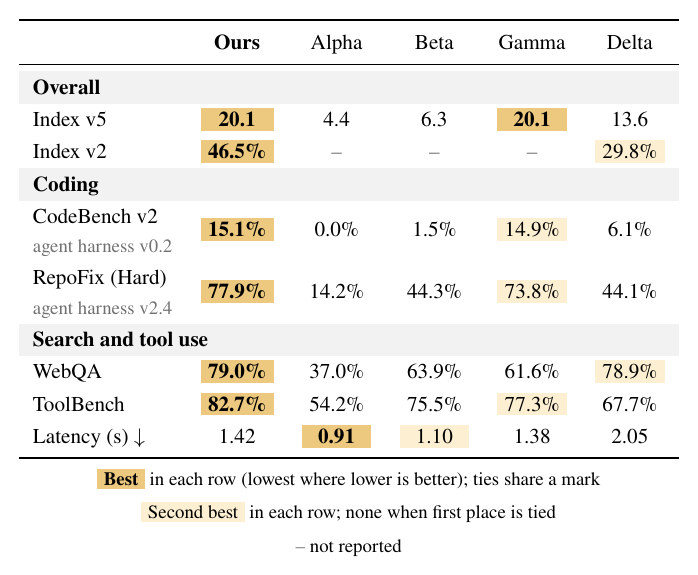
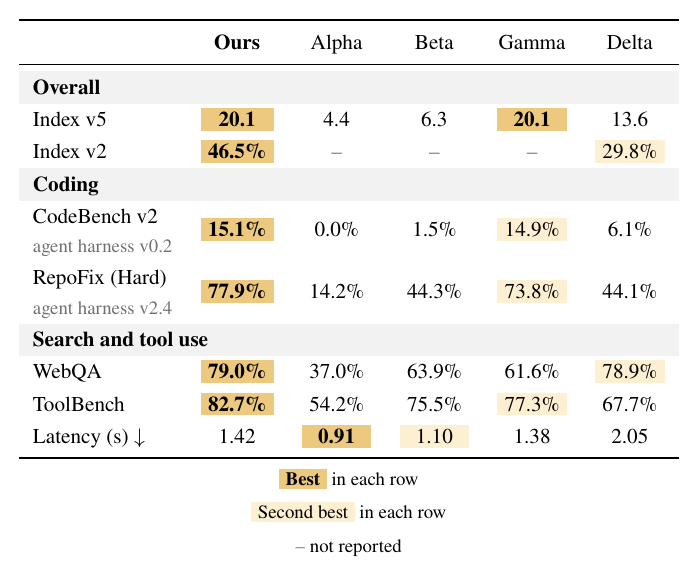
Leave out of the table key what the table already shows
\pvkey no longer adds a note on ties or on lower-is-better measures: tied
values already carry the same mark, and the arrows say which way is better.
The words for those notes (key/lowest, key/lowest-mixed, key/ties,
key/second-tied) and the punctuation only they used (key/open, key/close,
key/semicolon) are no longer options. The README, the guide, the skill's
table reference, the tests and the key images in the docs follow.

Changed region(s): [[0.1203, 0.7983, 0.8725, 0.9165]]

diff --git a/tests/test_latex.py b/tests/test_latex.py
@@ -85,14 +85,16 @@ KEY = re.compile(r"pubviz key: table (\d+): (.*)")
 
 def test_key_explains_the_marks_each_table_shows(latex):
     keys = {int(t): body.split(" | ") for t, body in KEY.findall(latex("key.tex"))}
-    best = r"\__pv_key_cue:nn {1}{Best} in each row (lowest where lower is better); ties share a mark"
-    second = r"\__pv_key_cue:nn {2}{Second best} in each row; none when first place is tied"
+    # Table 1 has a tie for best and a lower-is-better row. The key says
+    # neither: the table shows both, with two equal marks and an arrow.
+    best = r"\__pv_key_cue:nn {1}{Best} in each row"
+    second = r"\__pv_key_cue:nn {2}{Second best} in each row"
     missing = r"\__pv_na:  not reported"
     assert keys[1] == [best, second, missing]
     # Plain mode gives third place no mark, so the key has no line for it.
     assert keys[2] == [best, second, missing]
     assert keys[3] == [
-        r"\__pv_key_cue:nn {1}{Best} in each column (lowest where lower is better)",
+        r"\__pv_key_cue:nn {1}{Best} in each column",
         r"\__pv_key_cue:nn {2}{Second best} in each column",
         r"Small numbers: change against Base, \__pv_delta_text:nn {1}{better} or \__pv_delta_text:nn {-1}{worse}",
     ]
@@ -112,7 +114,7 @@ def test_key_in_chinese(latex):
     log = latex("key-zh.tex", engine="xelatex")
     keys = {int(t): body.split(" | ") for t, body in KEY.findall(log)}
     assert keys[1] == [
-        r"\__pv_key_cue:nn {1}{最佳} 每欄（越低越好者取最低）",
+        r"\__pv_key_cue:nn {1}{最佳} 每欄",
         r"\__pv_key_cue:nn {2}{次佳} 每欄",
         r"小字：相對基準的變化，\__pv_delta_text:nn {1}{較好}或\__pv_delta_text:nn {-1}{較差}",
     ]
@@ -128,13 +130,13 @@ def test_key_in_other_languages(latex):
     keys = {int(t): body.split(" | ") for t, body in KEY.findall(log)}
     # Korean separates words with spaces and has no word before the baseline.
     assert keys[1] == [
-        r"\__pv_key_cue:nn {1}{최고} 각 열 (낮을수록 좋은 열은 최솟값)",
+        r"\__pv_key_cue:nn {1}{최고} 각 열",
         r"\__pv_key_cue:nn {2}{두 번째} 각 열",
         r"작은 숫자: 기준 대비 변화, \__pv_delta_text:nn {1}{좋음} 또는 \__pv_delta_text:nn {-1}{나쁨}",
     ]
     # A language defined in the document; the words it leaves out are English.
     assert keys[2] == [
-        r"\__pv_key_cue:nn {1}{Beste} in jeder Spalte (lowest where lower is better)",
+        r"\__pv_key_cue:nn {1}{Beste} in jeder Spalte",
         r"\__pv_key_cue:nn {2}{Zweitbeste} in jeder Spalte",
         r"Kleine Zahlen: Änderung gegenüber der Basis, \__pv_delta_text:nn {1}{besser} oder \__pv_delta_text:nn {-1}{schlechter}",
     ]

diff --git a/README.md b/README.md
@@ -144,9 +144,9 @@ Write the table body as usual inside `pvtable`, and put `\pvkey` after it:
 `\pvkey` puts a key under the table. Each line starts with the mark it
 explains, such as "Best" in the best fill or "better" in the color of a
 change that helps, so the caption does not have to describe colors. The key
-lists only what the table shows. The note on ties appears only when a tie
-happens, and in `plain` mode the key shows bold and underline instead of
-fills.
+has a line only for the marks the table uses, and says nothing the table
+already shows, such as a tie or which way is better. In `plain` mode the
+key shows bold and underline instead of fills.
 
 Change the words for one key, `\pvkey[best={Best reported score}]`, or for
 the whole paper, `\pvsetup{key/best={Best reported score}}`.
@@ -166,12 +166,11 @@ as well. Any other language is a set of words:
 ```
 
 A set may leave words out; those stay English. Every word is also a `key/`
-option (`key/each-column`, `key/ties`, `key/small-numbers`…), as is the
-punctuation (`key/open`, `key/close`, `key/semicolon`, `key/colon`,
-`key/comma`) and `key/spaced`, which says whether words are separated by
-spaces (English, Korean) or not (Chinese, Japanese). The definitions of the
-built-in languages at the end of the options in `pubviz.sty` list every
-key. Options set after `language` change one word.
+option (`key/each-column`, `key/each-row`, `key/small-numbers`…), as is the
+punctuation (`key/colon`, `key/comma`) and `key/spaced`, which says whether
+words are separated by spaces (English, Korean) or not (Chinese, Japanese).
+The definitions of the built-in languages at the end of the options in
+`pubviz.sty` list every key. Options set after `language` change one word.
 
 The layout file carries the language and the words a figure writes itself,
 such as the key of `pv.deltas`, so figures follow the paper in any language

diff --git a/docs/guide.md b/docs/guide.md
@@ -82,9 +82,8 @@ are more methods or measures than a figure can hold, or when differences are
 small next to their noise.
 
 Every table that marks values gets a key under it (`\pvkey`). The key is
-written from what the table actually shows: a line for each mark in use, the
-note on ties only when a tie happens, the note on lower-is-better only when
-such a measure is marked.
+written from what the table actually shows: a line for each mark in use,
+and nothing the table already says, such as a tie or which way is better.
 
 ![A leaderboard table with its key underneath](img/leaderboard.png)
 
@@ -96,8 +95,7 @@ often that is yours.
 - Mark the best value in each benchmark with the darkest fill and bold, the
   second with a lighter fill. Mark nothing when every value is equal.
 - Tied values share a mark, and the next value takes the place after the tie
-  (two values tied for best leave no second). The key says so when a tie
-  happens.
+  (two values tied for best leave no second).
 - Group benchmarks under section rows rather than with extra rules.
 - Put the setting a number depends on (harness, version, prompt) in a small
   grey line under the benchmark name, not in a footnote.

diff --git a/skills/pubviz/references/tables.md b/skills/pubviz/references/tables.md
@@ -66,8 +66,8 @@ next is third) or `dense`; `fill=chip`, `cell` or `none`; `align=c`, `l`,
 ## The key
 
 `\pvkey` writes one line per mark the table shows, each opening with the
-mark itself, so the caption never describes colors. It lists only what is
-there; the note on ties appears only after a tie.
+mark itself, so the caption never describes colors. It lists only the
+marks that are there.
 
 - `\pvkey[baseline=Base]` names the reference of the changes.
 - `\pvkey[ours={Our method}]` adds a line for the `\pvours` row; a row named
